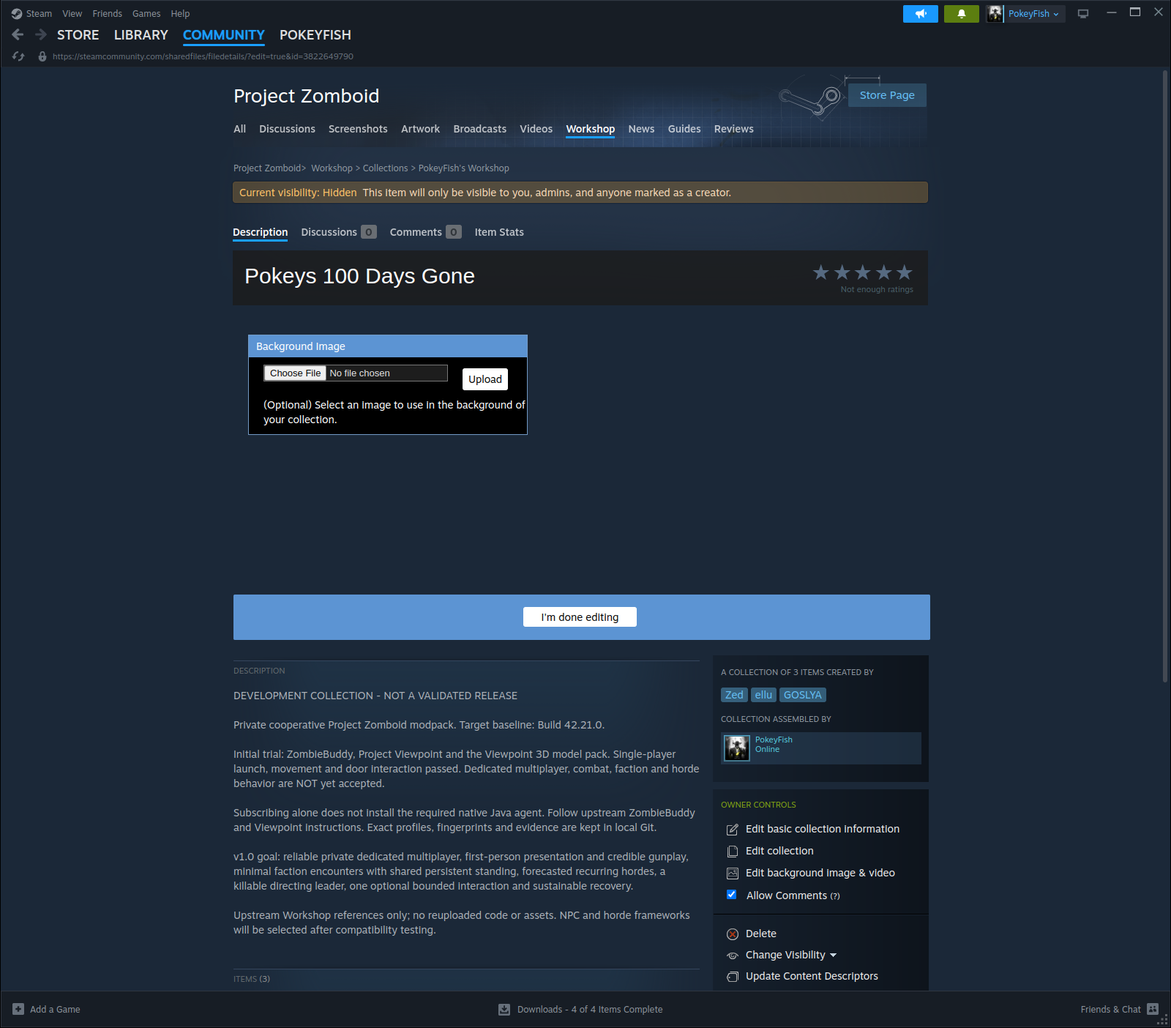
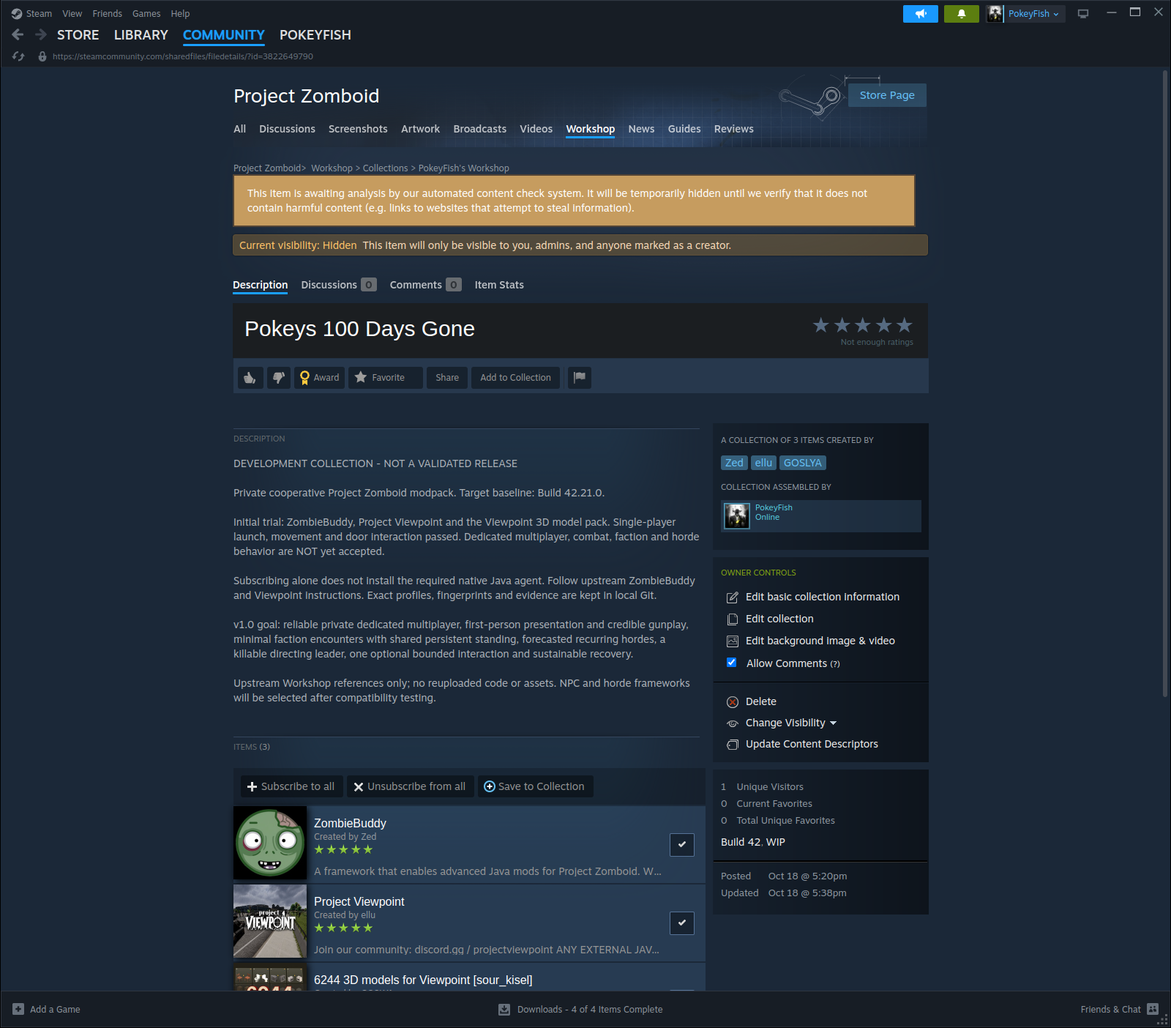
Verify dedicated rollback and fingerprint the development modpack

diff --git a/scripts/modpack.py b/scripts/modpack.py
@@ -28,8 +28,9 @@ def validate(manifest, profiles):
                 path = Path(item[field])
                 if path.is_absolute() or ".." in path.parts:
                     raise ValueError("Dependency paths must stay inside their item")
-        if "jar_sha256" in item and not re.fullmatch(r"[0-9a-f]{64}", item["jar_sha256"]):
-            raise ValueError("Invalid JAR SHA256")
+        for field in ["jar_sha256", "metadata_sha256", "payload_sha256"]:
+            if field in item and not re.fullmatch(r"[0-9a-f]{64}", item[field]):
+                raise ValueError(f"Invalid SHA256: {field}")
         ids.add(wid)
         mods.add(mid)
     if set(manifest["workshop_collection"]["verified_members"]) != ids:
@@ -54,7 +55,7 @@ def render(manifest, profiles, name):
             + "Mods=" + ";".join(items[i]["mod_id"] for i in ids) + "\n")
 
 
-def check_installed(manifest, workshop):
+def check_installed(manifest, workshop, full=False):
     results = []
     for item in manifest["trial_items"]:
         root = (workshop / item["workshop_id"]).resolve()
@@ -73,6 +74,8 @@ def check_installed(manifest, workshop):
         result = {"workshop_id": item["workshop_id"], "mod_id": fields["id"],
                   "version": version,
                   "metadata_sha256": hashlib.sha256(metadata.read_bytes()).hexdigest()}
+        if "metadata_sha256" in item and result["metadata_sha256"] != item["metadata_sha256"]:
+            raise ValueError(f"Installed metadata drift: {item['mod_id']}")
         if "jar_path" in item:
             jar = root / item["jar_path"]
             if not jar.resolve().is_relative_to(root):
@@ -82,6 +85,21 @@ def check_installed(manifest, workshop):
             if digest != item["jar_sha256"]:
                 raise ValueError(f"Installed JAR drift: {item['mod_id']}")
             result["jar_sha256"] = digest
+        if full:
+            tree = hashlib.sha256()
+            count, size = 0, 0
+            for path in sorted(root.rglob("*")):
+                if path.is_symlink():
+                    raise ValueError("Unexpected symlink in upstream payload")
+                if path.is_file():
+                    with path.open("rb") as source:
+                        digest = hashlib.file_digest(source, "sha256").hexdigest()
+                    tree.update((path.relative_to(root).as_posix() + "\0" + digest + "\n").encode())
+                    count += 1
+                    size += path.stat().st_size
+            result.update(payload_sha256=tree.hexdigest(), payload_file_count=count, payload_bytes=size)
+            if "payload_sha256" in item and item["payload_sha256"] != tree.hexdigest():
+                raise ValueError(f"Installed payload drift: {item['mod_id']}")
         results.append(result)
     return results
 
@@ -91,6 +109,7 @@ def main():
     parser.add_argument("command", choices=["validate", "profile", "check-installed"])
     parser.add_argument("--profile", default="vanilla")
     parser.add_argument("--workshop-root", type=Path, default=WORKSHOP)
+    parser.add_argument("--full", action="store_true", help="Fingerprint every upstream payload file")
     args = parser.parse_args()
     manifest = json.loads((ROOT / "config/modpack.json").read_text())
     profiles = json.loads((ROOT / "config/profiles.json").read_text())
@@ -100,7 +119,7 @@ def main():
             parser.error("Unknown profile")
         print(render(manifest, profiles, args.profile), end="")
     elif args.command == "check-installed":
-        print(json.dumps(check_installed(manifest, args.workshop_root), indent=2))
+        print(json.dumps(check_installed(manifest, args.workshop_root, args.full), indent=2))
     else:
         print(f"Manifest valid: {len(manifest['trial_items'])} trial items, {len(profiles)} explicit profiles")
 

diff --git a/tests/test_modpack.py b/tests/test_modpack.py
@@ -60,6 +60,20 @@ class ModpackTests(unittest.TestCase):
             with self.assertRaisesRegex(ValueError, "JAR drift"):
                 modpack.check_installed(manifest, root)
 
+    def test_full_fingerprint_detects_same_version_asset_change(self):
+        with tempfile.TemporaryDirectory() as directory:
+            root = Path(directory)
+            item_root = root / "1"
+            item_root.mkdir()
+            (item_root / "mod.info").write_text("id=Models\nmodversion=1.0\n")
+            (item_root / "model.asset").write_bytes(b"original")
+            item = {"workshop_id": "1", "mod_id": "Models", "version": "1.0", "metadata_path": "mod.info"}
+            manifest = {"trial_items": [item]}
+            item["payload_sha256"] = modpack.check_installed(manifest, root, full=True)[0]["payload_sha256"]
+            (item_root / "model.asset").write_bytes(b"changed without a version bump")
+            with self.assertRaisesRegex(ValueError, "payload drift"):
+                modpack.check_installed(manifest, root, full=True)
+
 
 if __name__ == "__main__":
     unittest.main()

diff --git a/tests/test_desktop_control.py b/tests/test_desktop_control.py
@@ -41,6 +41,18 @@ class DesktopControlTests(unittest.TestCase):
         desktop.dispatch({"action": "server_command", "command": "save"})
         desktop.server.stdin.write.assert_called_once_with("save\n")
 
+    def test_live_or_untracked_server_refuses_backup_and_restore(self):
+        desktop = control.Desktop()
+        for server in [None, Mock()]:
+            desktop.server = server
+            if server:
+                server.poll.return_value = None
+            with patch.object(control.runpy, "run_path") as helpers:
+                for action in ["server_backup", "server_restore"]:
+                    with self.assertRaisesRegex(RuntimeError, "exited"):
+                        desktop.dispatch({"action": action, "snapshot": "20261018-173100-vanilla"})
+                helpers.assert_not_called()
+
     def test_workshop_open_rejects_external_or_credential_urls(self):
         desktop = control.Desktop()
         with patch.object(control.subprocess, "Popen") as popen:

diff --git a/scripts/desktop_control.py b/scripts/desktop_control.py
@@ -1,5 +1,5 @@
 #!/usr/bin/env python3
-"""A foreground, X11-only control bridge scoped to a disposable PZ client.
+"""A foreground project bridge for disposable PZ, Steam Workshop and local server tests.
 
 Start `serve` in a normal desktop terminal; use `request` from Codex.
 No network listener, shell commands, system services, or arbitrary application input.
@@ -440,7 +440,7 @@ def serve():
         signal.signal(signal.SIGINT, shutdown)
         signal.signal(signal.SIGTERM, shutdown)
         print("PZ desktop bridge ready. Keep this terminal open; Ctrl+C stops it.", flush=True)
-        print(f"Project: {ROOT}\nOnly clients launched here can receive input.", flush=True)
+        print(f"Project: {ROOT}\nInput targets tracked PZ or explicitly attached Steam Workshop windows.", flush=True)
         try:
             while not desktop.stopping:
                 atomic_json(STATE / "ready.json", {"session": session, "pid": os.getpid(),

diff --git a/docs/INTEGRATION.md b/docs/INTEGRATION.md
@@ -1,0 +1,25 @@
+# Minimal integration record
+
+Observed 2026-10-18 on Linux Build 42.21.0 / `4a0e9546ec`. Versions and hashes are in `config/modpack.json`. References distribute original items, not copies. The three-item collection is a **candidate**, not the release or a passed dedicated-mod profile.
+
+| Item / purpose | Version, dependencies and relevant configuration | Evidence and remaining seam |
+| --- | --- | --- |
+| [ZombieBuddy](https://steamcommunity.com/sharedfiles/filedetails/?id=3619862853): Java loader required by Viewpoint | 2.3.4 from JAR manifest; client launch agent uses existing `policy=deny-new` approvals. `42/mod.info`; `libs/ZombieBuddy.jar` | Local GUI trial passed. Installed source `JavaModInfo.java:135` skips `media/java/client/` JARs on a server; `patches/Patch_GameServer.java` calls initialization callbacks at server start. Source evidence, **not a modded dedicated test**. Do not weaken trust policy to hide an error. |
+| [Project Viewpoint](https://steamcommunity.com/sharedfiles/filedetails/?id=3809306528): presentation and initial native shooting candidate | 0.1.6.1; requires ZombieBuddy >=2.3.0; pins 42.21. Metadata `common/mod.info`, JAR `42/media/java/client/Viewpoint.jar`; low onboarding settings used in GUI trial | First-person new game, movement, door interaction and clean exit passed. The JAR is client-scoped by the loader's path check. Dedicated mod handshake, reconnect, combat/collision/damage and client agreement remain unrun. No extra firearm owner yet. |
+| [6244 3D models for Viewpoint](https://steamcommunity.com/sharedfiles/filedetails/?id=3810302175): presentation assets | Mod ID `PZVoxelStudioViewpoint`, 1.0; local metadata title says 6277 and directory `42.20.4`, but metadata pins **42.21.0**. Do not infer compatibility from folder/title alone | Enabled in GUI trial; individual model completeness unverified. Full payload fingerprint covers 35,887 files / 450,786,523 bytes. No NPC/horde behavior is provided or implied. |
+
+Overlap owners: Viewpoint/native PZ shooting is the only current firearm candidate. NPC and horde owners are **unselected**. `isometricnomore` remains excluded pending its original initialization error. Bandits/Horde Nights/Hark are research leads in the handoff, not installed acceptance results.
+
+## Reproducibility / update handling
+
+`python3 scripts/modpack.py check-installed` compares IDs, versions, raw metadata hashes and JAR hashes. `--full` additionally hashes all upstream item files, including model assets. The payload digest is SHA256 of sorted records `<relative POSIX path>\0<file SHA256>\n`, encoded UTF-8, rooted at the Workshop item directory. Symlinks are refused. Hashes detect change; they do **not** freeze Workshop updates or authorize redistribution.
+
+On drift: preserve relevant logs/fingerprints under ignored runtime, identify the upstream change, then repeat the affected test gate before updating committed expected hashes. Never simply regenerate expected hashes to silence a failed check. Known-good upstream payload retention/reversion is subject to the author's license and Steam distribution facilities; no public fork/reupload is planned.
+
+## Next three executable tasks
+
+1. Finish M0 two-client reconnect/restart acceptance on this exact vanilla profile. Record actual group size and friend platforms. The current listener is loopback only; arrange an intentionally restricted test connection before asking a friend to connect. No public ports or router changes are implied.
+2. After M0, trial the explicit presentation profile on a **separate world**, confirm server-side dependency loading vs client-only rendering, then repeat join/reconnect. Do not enable a camera-rendering JAR on the server by moving it out of its client directory.
+3. Only then perform M1's native firearm/obstruction tests with A acting and B observing. Human NPC damage is a later target-specific test after selecting one NPC owner. Do not select extra ballistic/NPC/horde frameworks to bypass an unpassed seam.
+
+No custom gameplay code has been justified by the present evidence. Persistent standing, leader coordination and optional calibration remain requirements, not delivered features; inspect the chosen owners' hooks before implementing the smallest missing behavior.

diff --git a/docs/M0-02-dedicated-baseline.md b/docs/M0-02-dedicated-baseline.md
@@ -1,6 +1,6 @@
 # M0-02 — Isolated dedicated-server baseline
 
-Status: **single-client testing in progress** (2026-10-18). Dedicated installation, vanilla loopback startup, client join, movement, item drop, save and clean shutdown passed. Restart/restore are being checked. Two-independent-client acceptance and the modded server profile remain unrun.
+Status: **one-client local subtest accepted** (2026-10-18). Dedicated installation, vanilla loopback startup, join, movement, item transfer, reconnect, clean server restart and offline rollback passed. Two-independent-client acceptance and the modded/Steam-enabled server profile remain unrun. This does not yet accept the full M0 gate.
 
 ## Outcome
 
@@ -35,6 +35,17 @@ Client A: isolated `client-vanilla`, multiplayer favorite **Pokeys M0 local**, a
 Offline snapshot `20261018-173100-vanilla` contains 1,206 files, covering the world, server settings and account database. Snapshot integrity is SHA256 checked. Restore retains the previous state under `runtime/server/recovery/`; it never deletes the prior world. Credentials, databases and raw logs remain ignored. Current controller credentials are generated in ignored runtime files and are not printed into the action log.
 
 Both vanilla client and dedicated logs contain upstream warnings (missing tiles/icons, Lua requires, packet-handler listings); this was not an error-free run. Preserve raw logs when comparing the modded trial.
+
+### Restart and rollback observations
+
+- Clean restart: PID 130948 exited 0; PID 133219 started the same vanilla world. Client A reconnected as Jo Jarvis at the same location; **ID Card: Jo Jarvis** remained on the floor.
+- Used Take All on that floor inventory. The transfer was asynchronous; a screenshot during its progress bar was not sufficient evidence. An additional reconnect confirmed **one card in the player's inventory and an empty Ground inventory** (weight 1.41 vs 1.31 after dropping).
+- Disconnected and cleanly stopped the second server with exit 0. Restored snapshot `20261018-173100-vanilla`, SHA256-checked over all 1,206 files. Previous world/config/database were retained under `runtime/server/recovery/20261018-173447/`.
+- Started restored server PID 134293, reconnected, and observed the card **back on the ground and absent from player inventory**, in the same house. The saved player row remains ID 1, `pokeys_trial_a`, Jo Jarvis, living, `(7990.119140625,11756.443359375,0)` — equal to the offline snapshot.
+- Client Quit to Desktop → Yes exited 0. Final server `quit` logged `Shutdown handling finished`, exited 0 and left no UDP listener. No forced termination was needed.
+- The inventory capacity label briefly showed 8 immediately after joins, then returned to 12 when initialization completed; do not interpret that transient screenshot as a demonstrated stat-loss regression. No broad stat/damage integrity test was performed.
+
+Selected evidence is under `docs/evidence/2026-10-18-dedicated/`: restart marker, card in inventory before rollback, and card on ground after rollback. Full logs/actions remain ignored under `runtime/evidence/dedicated/` and `runtime/desktop-control/`. Three dedicated starts, three clean stops, four client joins (including the transfer-confirmation reconnect) were observed.
 
 ## Backup / restore procedure
 

diff --git a/README.md b/README.md
@@ -2,13 +2,14 @@
 
 A small private Project Zomboid survival multiplayer project. Original requirements: [PROJECT_BRIEF.txt](PROJECT_BRIEF.txt). Prior research and continuation notes: [HANDOFF.txt](HANDOFF.txt).
 
-Current milestone: establish a disposable local baseline on installed Build 42.21.0, revision `4a0e9546ec`. Autonomous GUI control passed with fresh vanilla and Viewpoint games, movement, door interaction and clean exits. Vanilla save reload also passed. Dedicated multiplayer and combat gates remain unrun; no release mod stack is accepted.
+Current milestone: disposable local baseline on Build 42.21.0, revision `4a0e9546ec`. Vanilla/Viewpoint GUI smoke passed. One vanilla client joined the isolated dedicated server and passed reconnect, restart and offline backup restoration. The hidden development Workshop collection is populated. Two-client, Steam-networking, modded dedicated and combat gates remain unrun; no release stack is accepted.
 
 - [Current status](docs/STATUS.md)
 - [Progress toward v1.0](docs/PROGRESS.md)
 - [User action items](docs/ACTION_ITEMS.md)
 - [Versioned dependency manifest](config/modpack.json)
 - [Development Workshop collection](docs/WORKSHOP.md)
+- [Integration record and next three tasks](docs/INTEGRATION.md)
 - [Local inventory](docs/M0-01-local-inventory.md)
 - [Desktop controller and GUI smoke test](docs/M0-03-desktop-smoke.md)
 - [Dedicated-server baseline and recovery test](docs/M0-02-dedicated-baseline.md)
@@ -19,7 +20,7 @@ The task sandbox cannot access X11 or the desktop bus directly. Start the scoped
 python3 /home/adrikingston/Projects/pokeys-100-days-gone/scripts/desktop_control.py serve
 ```
 
-The controller uses the installed game with separate caches and saves in `runtime/`. It supports bounded input for its own disposable game and explicitly attached Steam Workshop windows, plus a fixed anonymous dedicated-server installation action. Keep its terminal open; Ctrl+C stops it. See the smoke-test document for operations and acceptance evidence.
+The controller uses separate caches/saves in `runtime/`. It supports bounded input for its disposable game and explicitly attached Steam Workshop windows, plus fixed dedicated-server installation, lifecycle and offline recovery actions. Keep its terminal open; Ctrl+C stops it. See the smoke-test and dedicated-baseline documents for operations and evidence.
 
 Automated controller checks:
 
@@ -32,6 +33,7 @@ Validate and inspect candidate profiles (these commands do not deploy):
 ```bash
 python3 scripts/modpack.py validate
 python3 scripts/modpack.py check-installed
+python3 scripts/modpack.py check-installed --full
 python3 scripts/modpack.py profile --profile presentation-trial
 ```
 

diff --git a/AGENTS.md b/AGENTS.md
@@ -26,6 +26,8 @@ Read `README.md`, `docs/STATUS.md`, `docs/PROGRESS.md`, and `docs/ACTION_ITEMS.m
 - `python3 scripts/desktop_control.py request '{"action":"status"}'` checks the user-started host controller. It reloads source changes between requests. Its current game controls target its tracked disposable game; extend only within the user's authorized project work.
 - Direct X11 and desktop D-Bus connections from the task sandbox fail with `EPERM`. A working host controller already exists; do not repeat platform discovery or ask the user to start another controller if it is still running.
 - Tested profiles: `runtime/client-vanilla/` and `runtime/client-viewpoint/`. Main `~/Zomboid` settings and saves must remain intact. Game actions, screenshots, and raw logs are recorded under `runtime/`.
-- See `docs/M0-03-desktop-smoke.md` for the verified launch arguments, input timing, cursor/camera distinction, clean exit procedure, and actual results. Thirteen unit checks and single-player GUI smoke tests passed; multiplayer, combat and capacity remain separate gates.
+- See `docs/M0-03-desktop-smoke.md` for the verified launch arguments, input timing, cursor/camera distinction, clean exit procedure, and actual results. Twenty-seven automated checks pass. Single-player GUI and **one-client vanilla dedicated** join/restart/offline-restore passed; two-client, Steam-networking, modded dedicated, combat and capacity remain separate gates.
+- Development Workshop collection `3822649790` is created, hidden, owned by PokeyFish, and contains only the three presentation dependencies. See `docs/WORKSHOP.md`; do not create a duplicate. Branding upload failed twice but does not block development. Use `scripts/modpack.py` to detect dependency drift and render explicit non-deploying profiles.
+- The dedicated app is separately installed at `runtime/server/install/`, Build 42.21.0 / revision 4a0e9546ec / Steam build 25485538. Fixed server actions target only `runtime/server/vanilla/`, loopback 127.0.0.1:19860, with Public/UPnP disabled. `server_command` permits only save/players/quit. Backup/restore requires the tracked server to have exited; restore retains replaced state. Current client/server are stopped after testing; verify status before reuse.
 - Use a plain isolated dedicated-server process for the first baseline; packaging on k3s comes later. GPU resources are for rendered clients unless evidence shows another need. Do not change host-wide services or an existing server.
 - `isometricnomore` is subscribed but excluded from the trial because the original client log shows an initialization error. Do not include it or competing framework candidates merely because they are installed.

diff --git a/docs/STATUS.md b/docs/STATUS.md
@@ -3,12 +3,14 @@
 | ID | Status | Next evidence |
 | --- | --- | --- |
 | M0-01 Local inventory | Inspected; host-process visibility incomplete | Recorded in `docs/M0-01-local-inventory.md`; sandbox process view is restricted |
-| M0-03 Desktop automation | Accepted on 2026-10-18 | Fresh vanilla and Viewpoint games, movement, door interaction, three in-world exits with code 0; vanilla save reload; 13 automated checks pass |
+| M0-03 Desktop automation | Accepted on 2026-10-18 | Fresh vanilla and Viewpoint games, movement, door interaction, clean exits and vanilla save reload; controller extended for scoped Steam/server work; 27 project checks pass |
 | Workshop distribution | Created, hidden development | Collection `3822649790` contains the three presentation dependencies; no release stack accepted |
-| M0-02 Dedicated baseline | Installation complete; testing in progress | SteamCMD app 380870 build 25485538 / core revision 4a0e9546ec; startup, join, restart and restore remain unrun |
+| M0-02 Dedicated baseline | One-client local subtest accepted; needs two-client test | Vanilla join, move, item transfer, reconnect, server restart, offline rollback and clean stops passed. Two-client/Steam-enabled/external-network checks remain unrun |
 | M1 Viewpoint and shooting | Blocked by M0-02 | Clean isolated Viewpoint baseline; resolve `isometricnomore` separately |
 | M2 Human encounters | Blocked by M1 | Select and test one NPC framework |
 | M3 Horde event | Blocked by M2 | Select and test one horde owner |
 | M4 First integrated slice | Blocked by M1–M3 | Shared event, leader effect/death, persistence |
 
-No release mod stack has been accepted. M0-03 establishes local GUI control, initial first-person presentation and a single-player save/reload observation. Dedicated multiplayer, combat, sustained performance and capacity remain untested. Evidence and failed attempts are recorded in `docs/M0-03-desktop-smoke.md`.
+No release mod stack has been accepted. The dedicated subtest was **vanilla, one client, loopback, non-Steam**, not multiplayer/modpack certification. The three presentation dependencies remain a separately GUI-tested candidate. Two-client observations, Steam networking, modded dedicated behavior, combat, sustained performance and capacity are untested. Current game/server are stopped cleanly; controller remains available.
+
+Next: coordinate the two-client baseline with actual player platforms/count, then introduce the explicit presentation profile on another world. Integration/source inspection and update/recovery tooling can continue independently. See `INTEGRATION.md`, `ACTION_ITEMS.md`, and the milestone evidence.

diff --git a/docs/PROGRESS.md b/docs/PROGRESS.md
@@ -37,3 +37,11 @@ This is the durable chronological record. Each significant change or decision re
 - Added fixed server lifecycle commands and offline backup/restore with SHA256 checking and preservation of replaced state. Created an offline 1,206-file baseline snapshot. Restart/restore observation is still in progress; multiplayer acceptance is not claimed yet.
 - Added explicit vanilla/presentation profiles and `scripts/modpack.py` for dependency-order validation, non-deploying INI generation, installed ID/version and JAR-drift checks. All three installed dependencies match. ZombieBuddy's version comes from its JAR manifest because its mod.info omits modversion.
 - Twenty-five automated checks pass, including dependency/profile safety and backup corruption/path/roundtrip checks.
+
+## 2026-10-18 — Local restart/rollback subtest accepted; gate preserved
+
+- Same vanilla character and dropped ID-card marker survived a clean dedicated restart/reconnect. Then picked the card up, verified it in inventory after another reconnect, stopped the server, and restored the offline snapshot. Rejoining restored the card to the floor and removed it from inventory; saved living-player ID/location match the snapshot. Three dedicated starts/stops all exited cleanly; final client exit code 0, no listeners left running.
+- Retained the pre-restore world/config/account database at `runtime/server/recovery/20261018-173447/`. Selected before/after screenshots are versioned. Full raw logs, databases and snapshots remain ignored.
+- Added complete upstream payload/metadata fingerprints, including 35,887 model-pack files, and failure-on-drift checks. Twenty-seven automated checks pass. Added compact integration/source evidence and the next three dependent tasks.
+- Full M0 is **not accepted**: a second independent client and Steam-enabled networking remain untested. Recorded A-002 for actual group size/platforms and a coordinated two-client test. No NPC/horde/firearm alternatives or custom gameplay were introduced across that gate.
+- Workshop branding failed a second time with an 8-bit RGB PNG; description/membership remain intact. Cosmetic service/form troubleshooting is independent, with no demonstrated user-authentication action required.

diff --git a/docs/ACTION_ITEMS.md b/docs/ACTION_ITEMS.md
@@ -5,5 +5,8 @@ Only concrete user-dependent actions belong in the open table. Technical work th
 | ID | State | User action | Why / what it blocks | Independent work |
 | --- | --- | --- | --- | --- |
 | A-001 | Resolved | Start the foreground desktop controller in a normal terminal | Task sandbox cannot connect to X11; user started it and GUI smoke passed | Controller is currently available; no repeat setup is needed while it stays running |
+| A-002 | Needed for full M0 acceptance, not an immediate setup request | Confirm intended player count and friends' OSes; arrange one friend/independent client for a brief A-acts/B-observes join/reconnect/restart test | The brief explicitly requires two clients before adding more server mods. Only one client has been observed. The current server is deliberately loopback-only and stopped; agent must first prepare a restricted connection path and exact test instructions, not ask a friend to connect to 127.0.0.1 | Dependency/source inspection, candidate configuration, recovery/update tools and cosmetic Workshop work can continue. No production deployment or capacity claim is made |
 
-No additional user action is currently established. Workshop authentication, host capacity and a second independent client will be checked before escalating an exact action.
+No Steam login/MFA intervention was needed; collection creation succeeded in the existing session. An asynchronous question requested A-002's planning details. Do not treat lack of an immediate answer as a reason to stop independent work.
+
+Technical issues, **not presently user-dependent**: Workshop image upload failed twice with a generic banner; collection text/membership work. Task-shell DNS is restricted, but Steam and the fixed host-side anonymous SteamCMD action worked. Neither issue justifies asking for a password, an API key, broader system permissions, or a duplicate collection.

diff --git a/docs/WORKSHOP.md b/docs/WORKSHOP.md
@@ -11,6 +11,6 @@
 
 The old `/sharedfiles/createcollection/` route redirected to the Workshop landing page. Steam's client collection tools worked without handling account credentials or extracting cookies. Public APIs and SteamCMD remain preferable for suitable read/download operations, but no supported account-free collection-creation API was established. Hidden collection evidence is retained from the authenticated owner UI.
 
-Branding source and a PNG are under `assets/workshop/`. The first PNG upload failed with Steam's generic upload-error banner; saving the description without an image succeeded. Image upload is cosmetic and does not block membership/server work. Do not recreate the collection to address it.
+Branding source and a PNG are under `assets/workshop/`. Both the initial 16-bit PNG and a standard 8-bit RGB PNG retry failed with Steam's generic upload-error banner; saving without an image succeeds. Cause is unresolved; no evidence establishes an account or authentication restriction. Image upload is cosmetic and does not block membership/server work. Do not recreate the collection to address it. A browser-side retry or another image format can be investigated independently later.
 
 The collection is a distribution convenience, not an executable server configuration or version lock. Use `config/modpack.json` and an explicitly selected server profile. Never copy every candidate into the server automatically.
